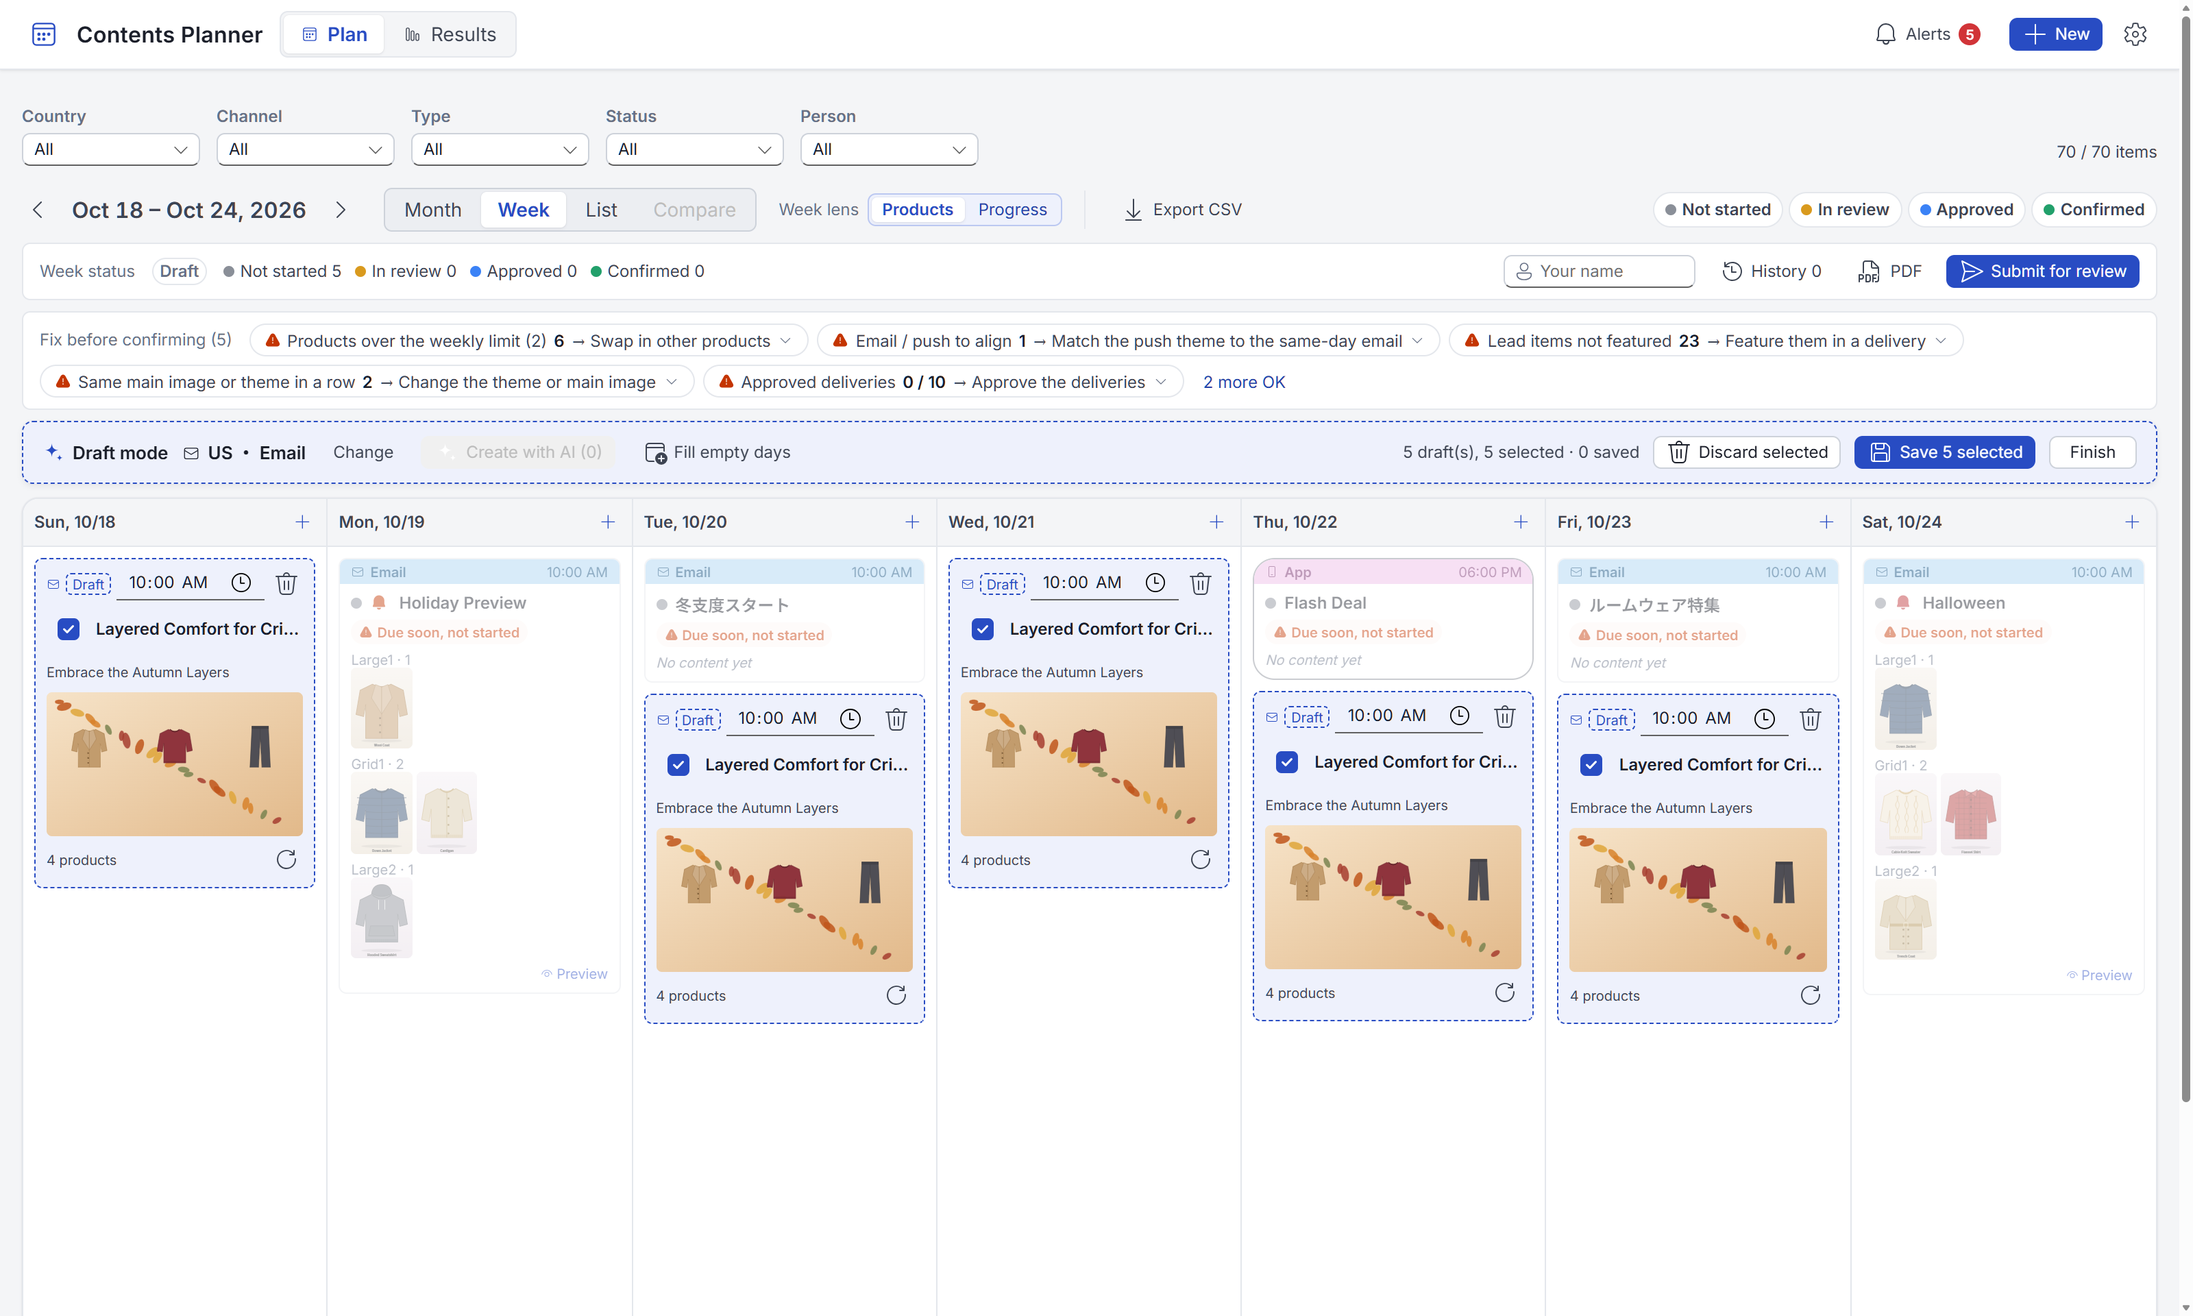
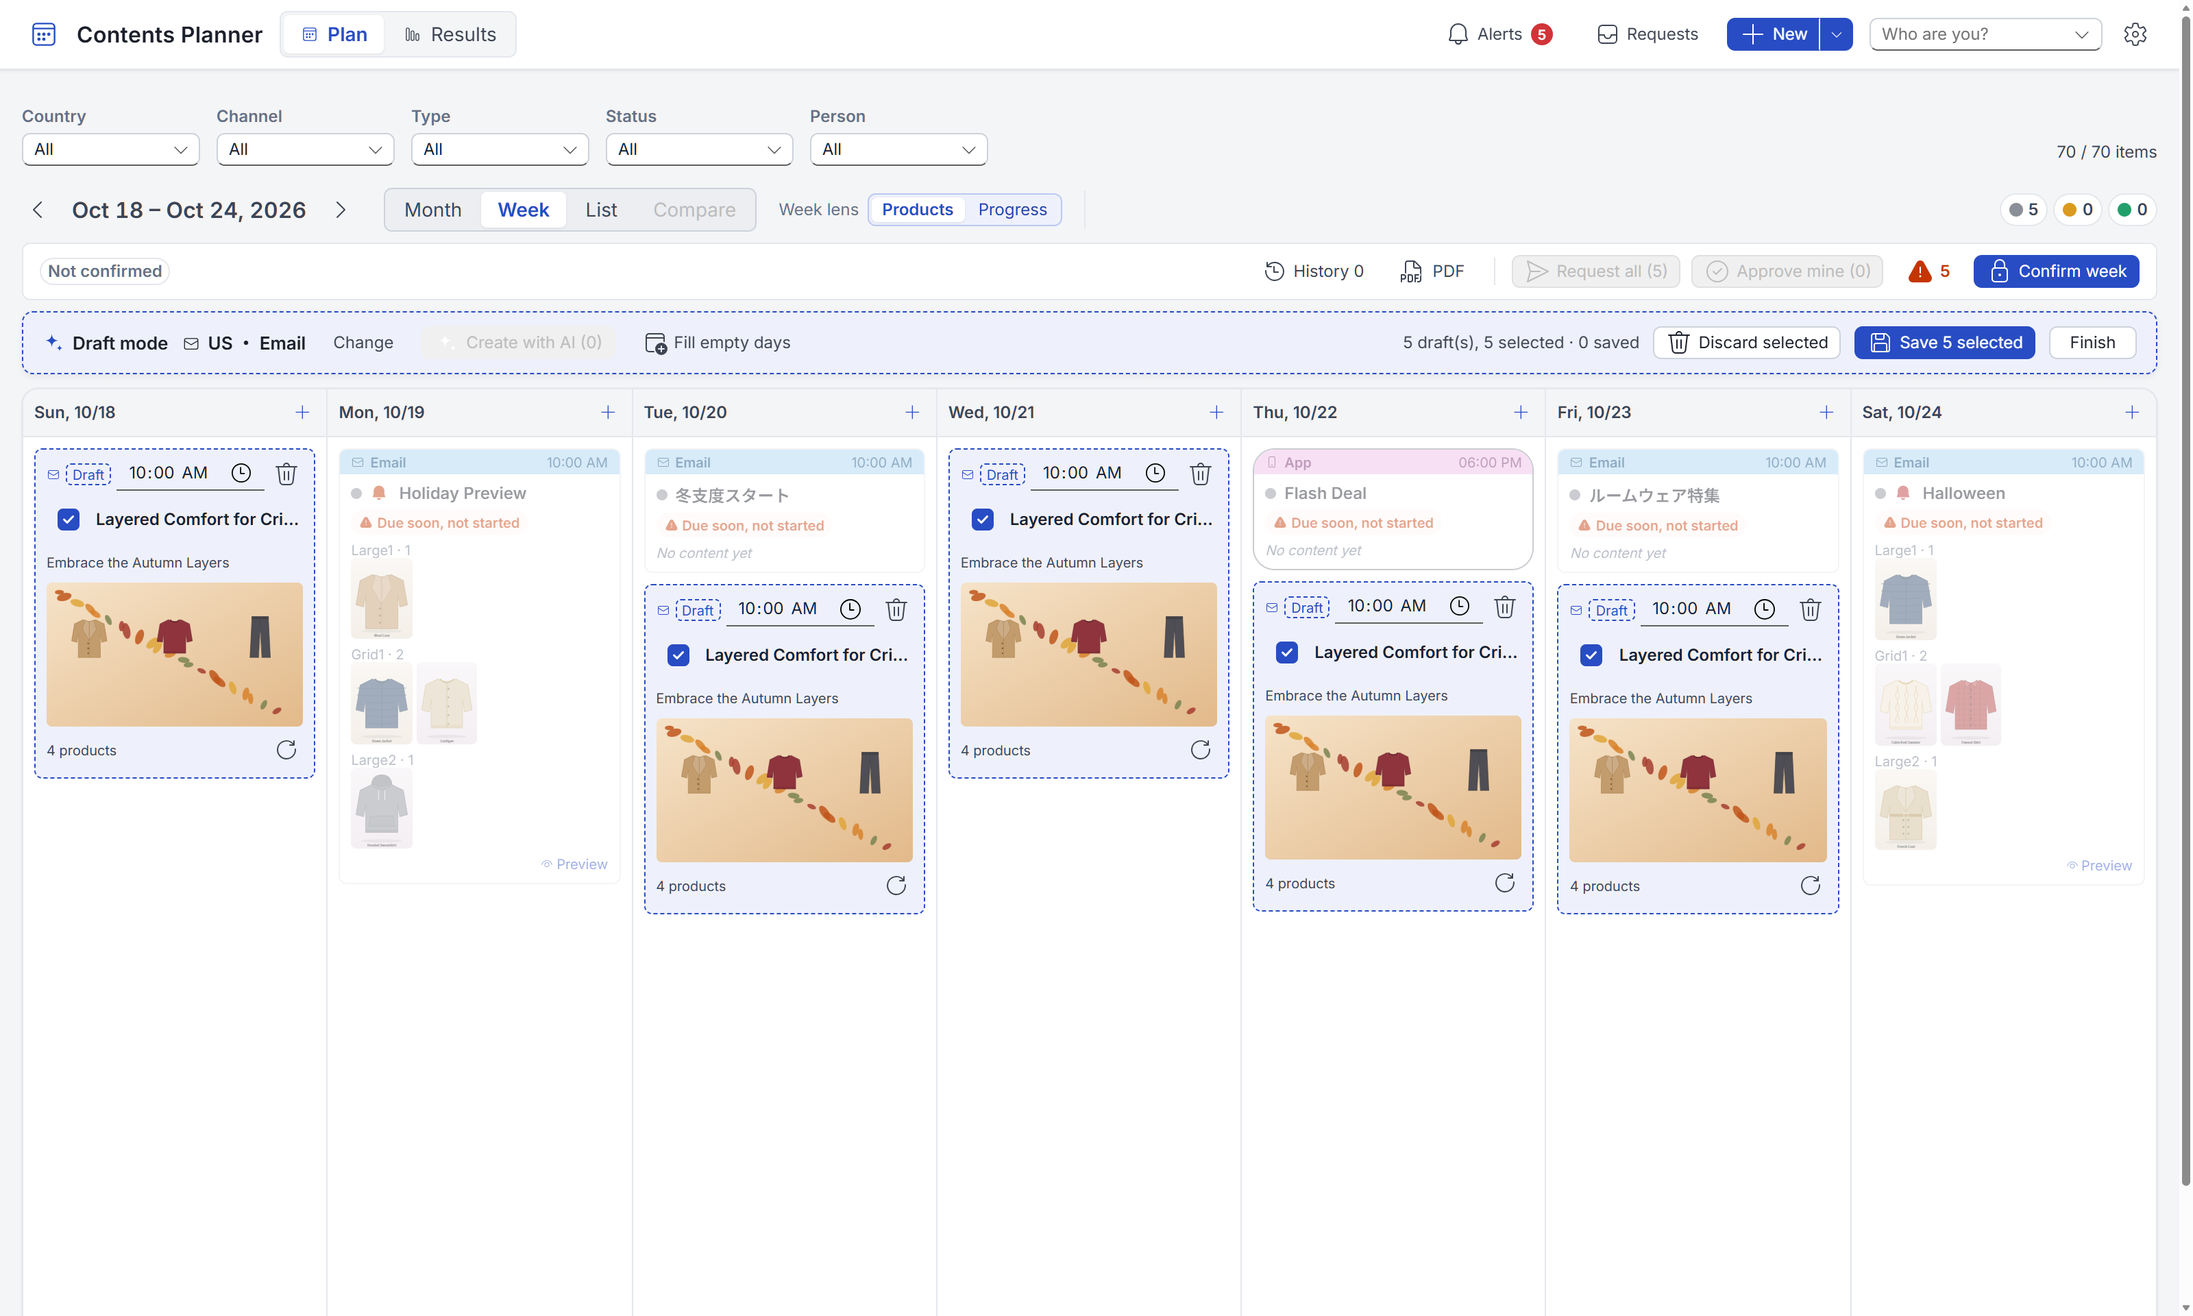
docs: 置き場所の整理(X20・FLOWS の C-11)を FEATURES・FLOWS・BACKLOG に書き、まとめて AI で下書きの撮影を直す
- 撮影の手順: 「次へ(n 本の下書きを並べる)」を、「次の週」と取り違えないよう括弧つきの文言で探す
- FEATURES の週の帯の説明を、いまの形(確定前 / 確定・まとめて依頼・自分宛てを承認)に合わせる

diff --git a/docs/FEATURES.md b/docs/FEATURES.md
@@ -39,12 +39,12 @@
 
 ### 4.1 ヘッダーと、共通のツールバー
 
-- ヘッダー: アプリ名、**[計画 | 結果]** の切り替え、「**アラート**」(未対応の件数。在庫切れがあれば赤)、「**＋ 新規作成**」(1 本作る。まとめて作るのは、週の表示の「まとめて AI で下書き」(5.1.1))、**⚙**(テンプレートの管理・データと画像の書き出し・言語の切り替え・開いたとき自動で下書き)。
+- ヘッダー: アプリ名、**[計画 | 結果]** の切り替え、「**アラート**」(未対応の件数。在庫切れがあれば赤)、「**依頼**」(自分宛ての承認の依頼)、「**＋ 新規作成 ▾**」(本体で 1 本作る。▾ から「この週をまとめて AI で下書き」(5.1.1))、「**あなた**」(履歴・依頼・承認に残す人)、**⚙**(テンプレートの管理・ユーザーと承認グループ・方針と決まり・**データ**(配信や結果の CSV の書き出し、結果の取り込み、AI でテーマの種類を分ける、データと画像の書き出し、BigQuery からの取り込み)・言語・開いたとき自動で下書き)。
 - ツールバー(計画と結果で共通。切り替えても、期間・見せ方・絞り込みはそのまま):
   - 絞り込み: **国 / チャネル / 種別 / ステータス / 担当**。件数が出る。担当は、企画・制作の担当のどちらか(5.13 も)。
   - 期間: ‹ › で移動。期間の文字(例: 2026年10月)を押すと**ミニカレンダー**が開き、月・週・日へ移れる。
   - 見せ方: **[月 | 週 | 一覧 | 比べる]**(「比べる」は結果の面だけ)。週のときは「週の見方」(**商品 / 進み具合**)。
-  - 操作: 区切りの右に「**データ ▾**」のメニュー(計画: CSV で書き出す。結果: 書き出し・取り込み・AI でテーマの種類を分ける)。計画と結果で同じ形・同じ位置。
+  - ツールバーは、期間と見せ方だけ(月・週・一覧・比べるで形が変わらない)。データの書き出し・取り込みは ⚙ の「データ」。
   - 右端の凡例: ステータスの**色の点**だけ(マウスを重ねると名前)。週の表示では、その週の状態ごとの件数を点の横に出す。
 - 国: US / JP。チャネル: **メール / アプリ**。種別: **販促 / CRM / EC**。
 - ステータス(4段階・色分け): **未起案 → 検討中 → 承認済み → 確定**。
@@ -55,7 +55,7 @@
   - 印: アラートのある配信、配信日が近いのに未着手の配信、取りやめた配信(取り消し線で薄く)。
   - 各週の先頭(日曜日)の「**週 ›**」を押すと、その週の週表示に移る(結果の面でも同じ)。
   - **日付のマスを押すと、その日の 10:00 を配信日時にして、新規作成**が開く(マウスを乗せると「＋」が出る)。絞り込み中の国・チャネル・種別も最初から入る。
-- **週**: 1 週間の配信を、日ごとに、縮小プレビューつきで並べる(メールとアプリは、箱の形でも見分ける)。期間の横に**週の状態**(下書き / レビュー中 / 確定)、ツールバー右端の凡例(色の点)に、その週の状態ごとの件数。上に、作業のボタンを並べた**週の帯**(5.12)。
+- **週**: 1 週間の配信を、日ごとに、縮小プレビューつきで並べる(メールとアプリは、箱の形でも見分ける)。ツールバー右端の凡例(色の点)に、その週の状態ごとの件数。上に、週の状態とレビュー・確定の操作を並べた**週の帯**(5.12)。
   - 週の見方「**商品**」は、載せた商品の画像、「**進み具合**」は、工程の進み具合を出す。
 - **一覧**: 配信を表で並べる。左にサムネイル(マウスを重ねるとプレビュー)。列見出しで並べ替え、表示する列を選べる。**CSV で書き出す**。
 - どの見せ方でも、配信を押すと、**配信カード**が開く。
@@ -98,7 +98,7 @@
 - 下書きには、「これまでの学び」(過去の配信の、次に生かすメモ)も渡す。
 
 ### 5.1.1 まとめて AI で下書き(最大 10 本)
-- 週の表示の「**週の状態**」の帯の、いちばん左の「**まとめて AI で下書き**」(週の表示のときだけ出る。確定した週では押せない)。ヘッダーの「新規作成」は、1 本作るだけ。
+- ヘッダーの「**新規作成 ▾**」の ▾ から「**この週をまとめて AI で下書き**」(週の表示のときだけ選べる。確定した週では選べない)。「新規作成」の本体は、1 本作るだけ。
 - 押すと、週の表示がそのまま「**下書きモード**」になる(別の画面は開かない)。まず、この週にまとめて作る配信の、**国とチャネル**を 1 回だけ選ぶ(既定は、画面の絞り込み)。この週の、その国・チャネルの配信がない日(今日以降)が出て、「次へ」で、その日の列に下書きが 1 本ずつ並ぶ。
 - 下書きは、破線の枠と「下書き」の印。下書きモードのあいだ、既存の配信は薄くなる(マウスを重ねると元の濃さ)。下書きには、**時刻・種別・テーマのヒント**(任意。例: 雨の日・新作ニット。AI がテーマを考えるときに最優先する)を入れられる。日の「＋」で、その日に下書きを足せる。帯の「空いている日で埋める」も。
 - 帯の「**AI で作る**」で、同時に 3 本まで作る。先にできた下書きと、すでにある配信のテーマ・商品を避ける。失敗した下書きは「やり直す」、できた下書きも「作り直す」ができる。確認の一覧は、できた下書きも含めて数える。
@@ -202,8 +202,8 @@
 - 日付・価格の表記も、言語に合わせる。
 
 ### 5.12 週のレビューと承認
-- **週の状態**: 下書き → レビュー中 → 確定。状態は、期間の横の印に出す(マウスを重ねると、レビューに出した日時・確定した日時)。
-- **週の帯**(週の表示の上。操作だけを置く): 左に「**まとめて AI で下書き**」(5.1.1)。右に、名前・「履歴」・「PDF」と、区切りのあとに「**レビューに出す**」「**まとめて承認**」(検討中 → 承認済み)「下書きに戻す」「**確定の前に直すこと**」の印・「**週を確定**」「確定を取り消す」。
+- **週の状態**: 確定前 → 確定。状態は、週の帯の左端の印に出す(マウスを重ねると、確定した日時)。
+- **週の帯**(週の表示の上。その週のレビューと確定だけを置く): 左端に週の状態の印。右に「履歴」・「PDF」と、区切りのあとに「**まとめて依頼**」「**自分宛てを承認**」「**確定の前に直すこと**」の印・「**週を確定**」「確定を取り消す」。
 - **配信 1 本ずつの承認**: 配信カードの下で、名前を入れて「**保存して承認**」、または理由を付けて「**差し戻す**」(理由はコメントにも残る)。承認者の制限はない(誰でも押せる)。
 - **確定後の変更の制限**: 確定した週の配信を開くと知らせが出て、保存には理由が必要。保存すると、配信は「検討中」、週は「レビュー中」に戻り、理由は記録に残る。承認済みの配信の内容を変えても、「検討中」に戻る。
 - **確定の前に直すこと**(確認の一覧。「週を確定」の左の印): 週を確定する前に、0 にしておくことの一覧。同じ商品の週の回数(上限を超えたもの)、メールとアプリ、主力の商品の漏れ、テーマ・メイン画像の連続、未対応のコメント、未解決の質問、承認の数。
@@ -223,7 +223,7 @@
 - **リンク先**(コンテンツ生成の ⑤): メールは、メイン画像・ボタンごとに、実際の URL と計測用のパラメーターを決める。アプリは、開くアプリの画面を決める(5.6.1)。リンク先のタブを開いている間は、プレビューのリンクの場所に番号が出る(未設定は色が変わる)。
 
 ### 5.14 結果の振り返り
-- **結果の取り込み**: 結果の面の「データ ▾」から、CSV(配信名・配信日・送った数・開封・クリック・注文・売上・前年の売上)を取り込む。「取り込みの見本」もある。CSV で取り込むのは、配信ごとの数字。リンクごとのクリック・商品ごとの結果は、データにあれば、ヒートマップや商品の表に出す。
+- **結果の取り込み**: ⚙ の「データ」(結果の面を開いているとき)から、CSV(配信名・配信日・送った数・開封・クリック・注文・売上・前年の売上)を取り込む。「取り込みの見本」もある。CSV で取り込むのは、配信ごとの数字。リンクごとのクリック・商品ごとの結果は、データにあれば、ヒートマップや商品の表に出す。
 - **月**: 計画の面と同じカレンダーで、配信ごとに売上・開封率(アプリはタップ率)・前年比。左の線の色は前年比(上なら緑、下なら赤)。結果がまだの配信は灰色。
 - **週**: 日ごとに、**クリックを重ねたプレビュー**(ヒートマップ)と主な数字。上に「**この週の振り返り**」のメモ(週全体で気づいたこと・次の週に生かすこと。その場で保存)。ツールバーの「**前週**」で、前の週の週表示に 1 回で移れる。
 - **前週の振り返り**: 計画の面の週の表示に、前の週に書いた振り返りが出る(「前週の結果を見る」で、結果の面の前週へ)。

diff --git a/docs/FLOWS.md b/docs/FLOWS.md
@@ -155,6 +155,7 @@
 | F10 | 確認の一覧の役割が分からない(問題のない項目も同じ大きさで並び、何をすればよいかが書かれていない。「週を確定」とつながっていない) | 4・5 | 4-2・5-4 | 中 |
 | F11 | 質問が「制作 → 企画」の一方向で、ほかの人どうしで聞けない | 4・6 | 1-2 | 中 |
 | F12 | 週の状態の帯が、ふつうの幅で 2 行に折り返す(「あなたの名前」から右が 2 行目に回る。「直すこと n 件」が加わって長くなった) | 4・5 | 5-4 | 小 |
+| F13 | 置き場所とグループが気持ち悪い(週の状態が週の表示のときだけツールバーに出て、月に切り替えるとボタンの位置がずれる。週の帯に「作る」「自分」「記録」「確定」が同居。たまにしか使わない「データ」がツールバーにある) | — | 2-2・2-3・2-4 | 中 |
 
 ## 6. 変える候補(未決定。利用者と 1 つずつ決める)
 
@@ -171,6 +172,7 @@
 | C-7 ✅ | F8 | (2026-10-17 に入れた。X19)週ごとの振り返りのメモ(weeks.retro)。結果の面の週の表示で書き、計画の面の週の表示に「前週の振り返り」として出す。結果の面のツールバーに「前週」 | 週の帯は触らず、帯の下に置いた |
 | C-8 ✅ | F10 | (2026-10-17 に入れた。X12)確認の一覧を「確定の前に直すこと」にする。問題のある項目だけを、何をするかと一緒に出す。問題のない項目は「ほか n 項目は OK」にまとめる。「週を確定」の横に「直すこと n 件」 | 位置は変えない。OK の項目は消さずに、押すと出る |
 | C-10 ✅ | F12・F7 | (2026-10-17 に入れた。X14)週の状態の帯を 1 行に。状態(週の状態・状態ごとの件数)と作業(ボタン)を分ける。週の状態は期間の横、件数は凡例に入れる(凡例と件数の重なりも解消)。確定の前に直すことは「週を確定」の左の印(⚠ n)にたたみ、押すと一覧が重なって開く。「最初の配信を開く」から「保存して次へ」で順に直す。選んだ項目の札は、右のボタンがずれないよう帯の左に | 帯が 2 段から 1 段に。ボタンは消していない |
+| C-11 ✅ | F13 | (2026-10-17 に入れた。X20)置き場所の整理。週の状態は週の帯の左端へ(ツールバーで出たり消えたりしない)。まとめて AI で下書きはヘッダーの「新規作成 ▾」へ、あなたはヘッダーへ、データの書き出し・取り込みは ⚙ の「データ」へ。ツールバー = 期間と見方、週の帯 = その週のレビューと確定、ヘッダー = 入口・知らせ・作る・自分・設定 | 表示の切り替えで、ものが動かない |
 | C-9 ✅ | F11 | (2026-10-17 に入れた。X13)質問を、誰からでも誰にでも(宛先・返信する人)。「担当」の絞り込みに、質問の宛先・タスクの担当も含める | 置き場所は変えない |
 
 - 1 つずつ、撮影用のモックで作って見てもらってから入れる(中ペインの整理 X8 と同じ進め方)。

diff --git a/docs/BACKLOG.md b/docs/BACKLOG.md
@@ -150,6 +150,7 @@
 | X17 | ✅ | 制作の担当・締め切り・引き継ぎ済みの入力を 1 か所に(FLOWS の C-3。2026-10-17)。入力は「やり取り → 引き継ぎ」のタブだけ(締め切りもここで決める)。左の配信情報は要約の表示だけで、押すとそのタブが開く(`ContentPane.tabRequest`) | — | なし |
 | X18 | ✅ | コンテンツ生成のタブが狭い幅で横にスクロールする(FLOWS の F9。2026-10-17)。タブの列が幅に収まらなければ番号(①〜⑥)だけにし、名前はマウスを重ねると出す(`ContentPane` の `compact`)。英語の「6. Production notes」「6. Timing & audience」は「6. Notes」「6. Timing」に短く | — | なし |
 | X19 | ✅ | 週ごとの振り返りのメモと、結果の面の「前週」(FLOWS の C-7。2026-10-17)。表 weeks に列 retro。結果の面の週の表示の上に「この週の振り返り」(`src/WeekRetro.tsx`。その場で保存。週の行がなければ下書きの行を作る)。計画の面の週の表示に「前週の振り返り」と「前週の結果を見る」。ツールバー(結果の面)に「前週」 | — | なし |
+| X20 | ✅ | 置き場所の整理(FLOWS の C-11。利用者の要望 2026-10-17: 配置とグルーピングが気持ち悪い)。週の状態の印をツールバーから週の帯の左端へ。「まとめて AI で下書き」をヘッダーの「新規作成 ▾」(SplitButton)へ。「あなた」をヘッダー(⚙ の隣)へ。計画・結果の「データ ▾」を ⚙ の「データ」の群へ(結果の操作は `ResultsPage.onDataActions` で受け取る) | — | なし |
 
 (2026-10-12: プレビューは、配信カードのチャネルに合わせて 1 種類だけにした(メールとプッシュの切り替えをやめた)。X6 の前段)
 
